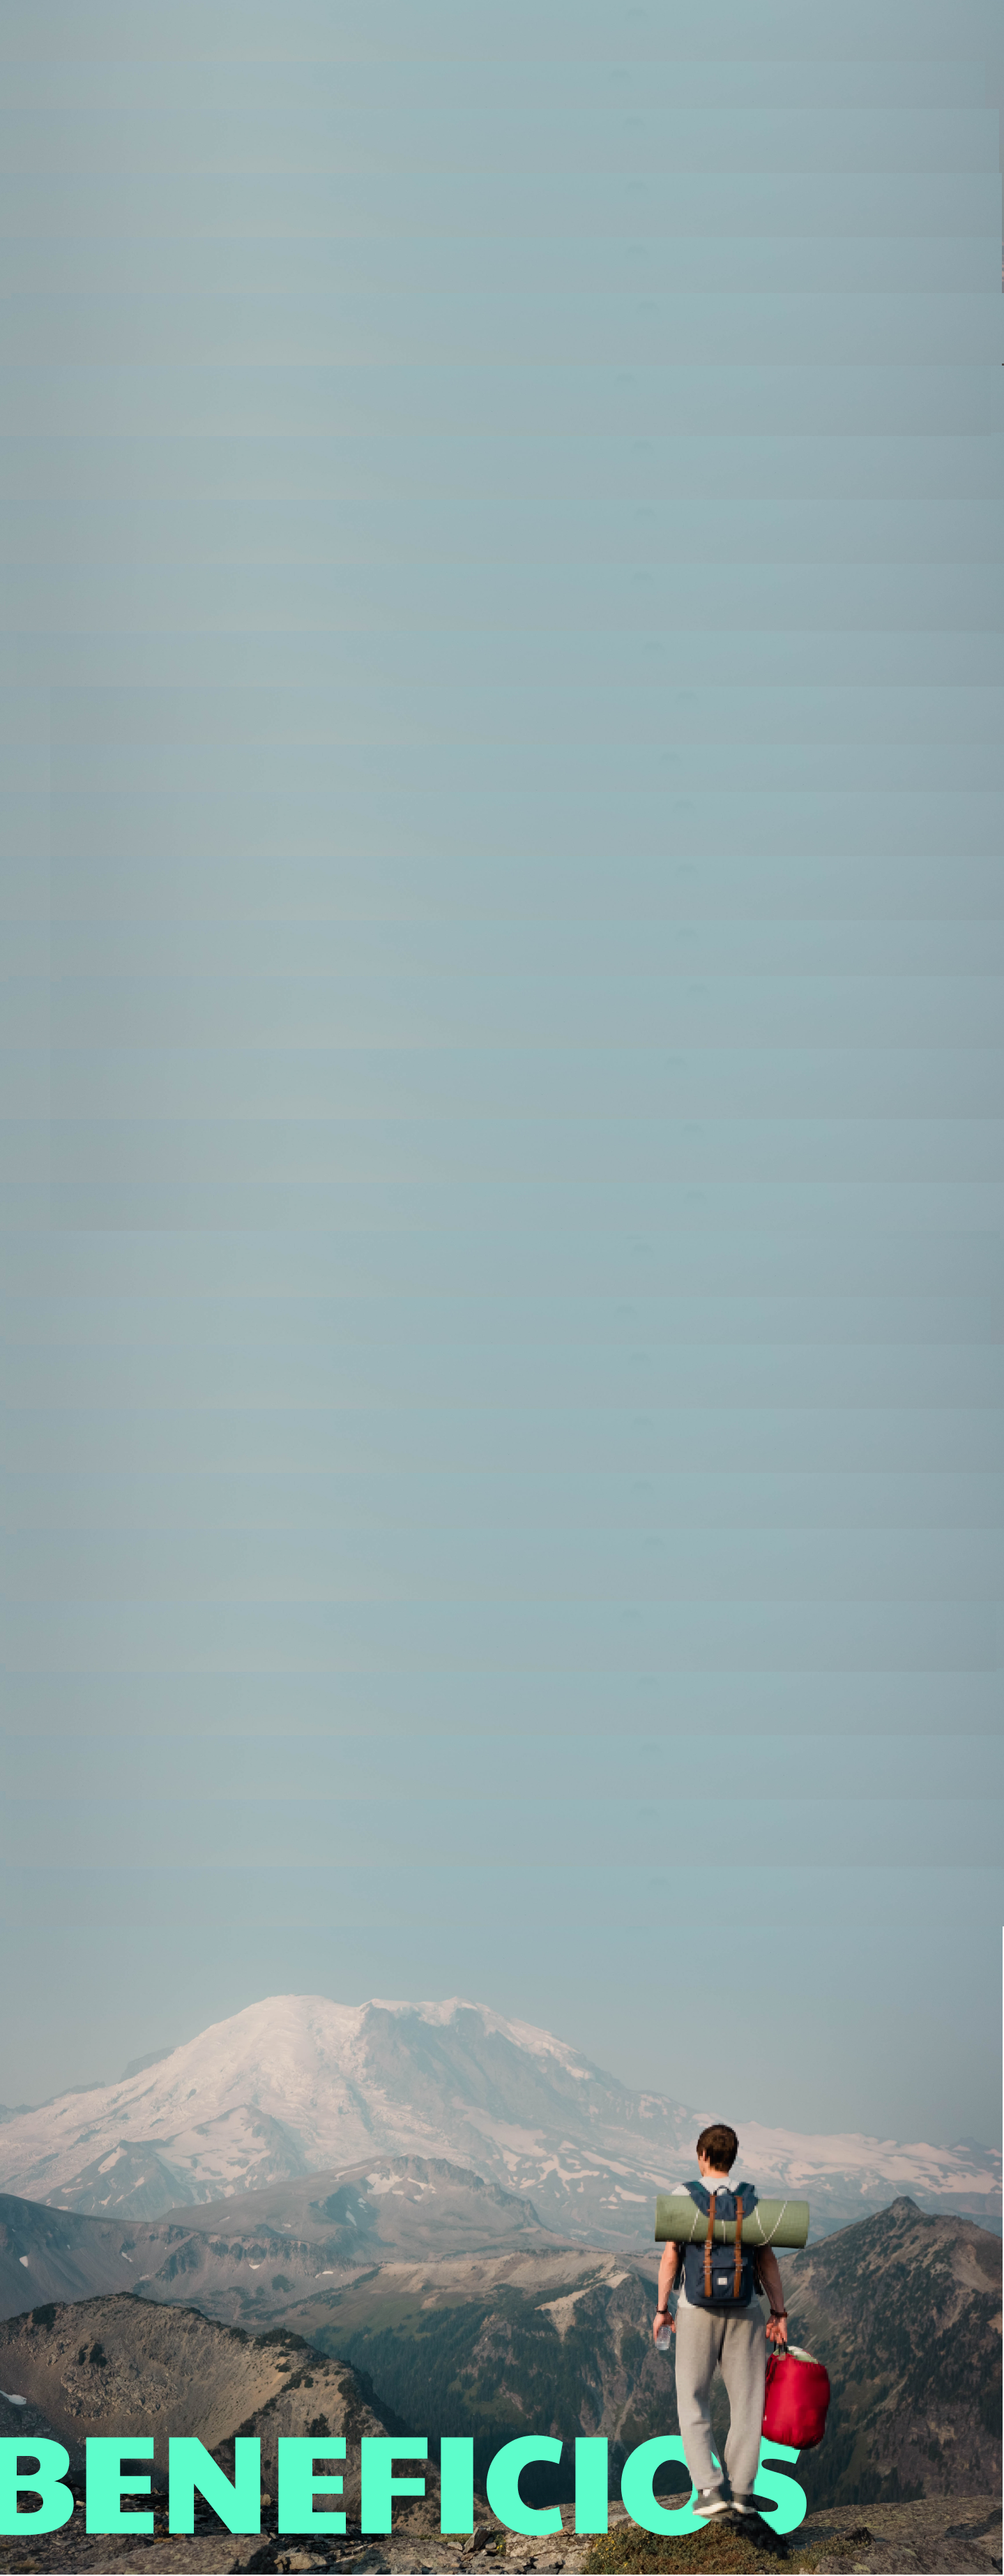
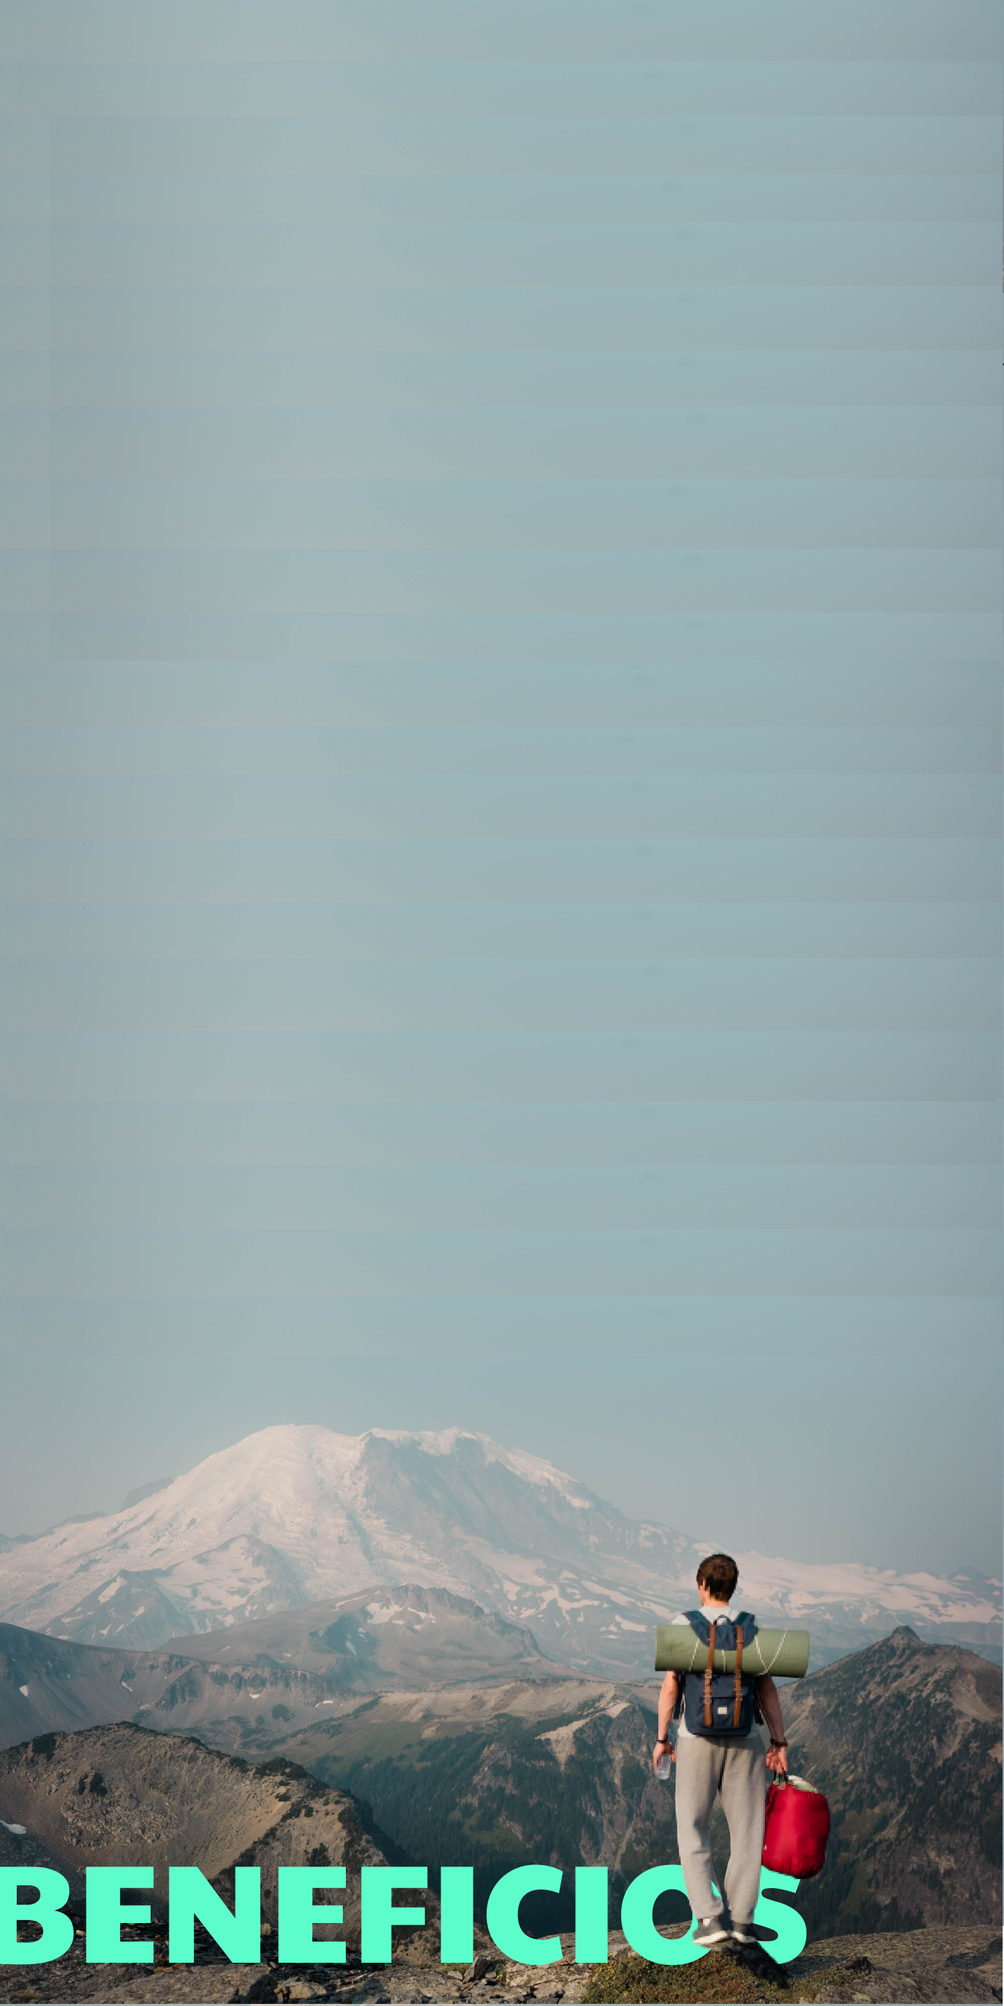
Cambio de beneficios.html a responsive ver5.1 - adaptacion pantalla cel

Changed region(s): [[0.0, 0.7118, 1.0, 1.0]]

diff --git a/pages/beneficios.html b/pages/beneficios.html
@@ -72,7 +72,7 @@
 
         <!-- Footer -->
         <div class="row redes">
-            <div class="col redes__layout redes__layout__vertical">
+            <div class="col redes__layout redes__layout__vertical redes__layout__vertical__cel">
                 <a href="https://www.facebook.com/" target="_blank"><img src="../Imagenes/facebook.png" alt="facebook"></a>
                 <a href="https://www.instagram.com/" target="_blank"><img src="../Imagenes/Instagram.jpeg" alt="Instagram"></a>
                 <a href="https://www.whatsapp.com/?lang=es_LA" target="_blank"><img src="../Imagenes/Whatsapp.jpeg" alt="Whatsapp"></a>

diff --git a/styles/styles.css b/styles/styles.css
@@ -72,9 +72,7 @@ body{
     .p_texto_beneficios{
         color: white;
         margin-top: 25%;;
-
     }
-
 
     /* Define el tamaño y la disposición  de los iconos de las redes*/
 
@@ -90,6 +88,16 @@ body{
         gap: 10px;
         position: absolute;
         bottom: 0%;
+        left: 90%; /* PREGUNTAR porque no funciona right: 0;*/
+    }
+
+    .redes__layout__vertical__cel{
+        display: flex;
+        flex-direction: column;
+        justify-content: center;
+        gap: 10px;
+        position: absolute;
+        bottom: 14gi%;
         left: 90%; /* PREGUNTAR porque no funciona right: 0;*/
     }
 }
